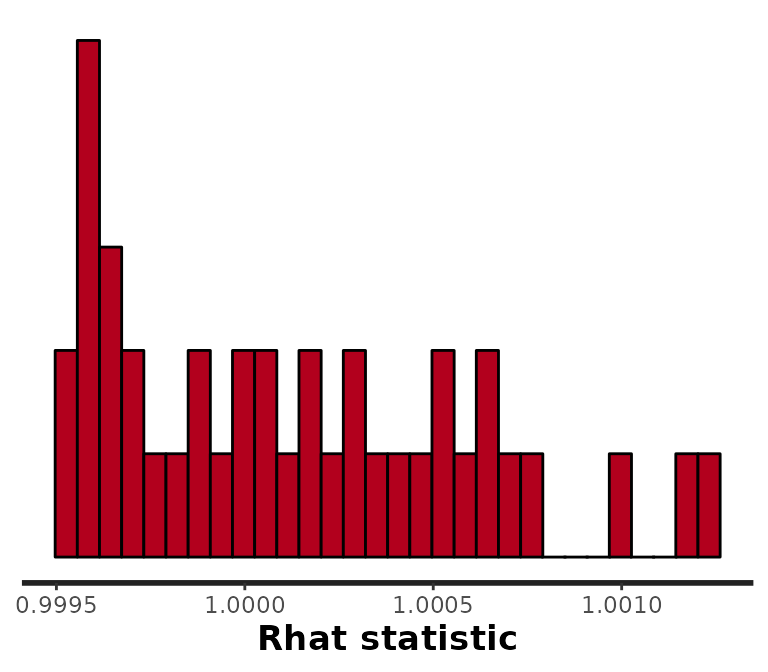
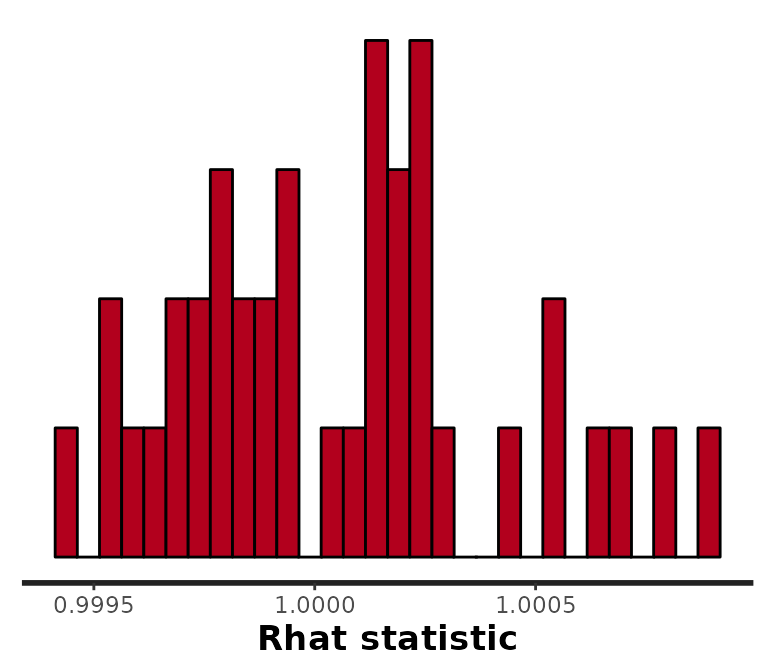
clean up mcmc discussion

diff --git a/docs/articles/surveil-mcmc.html b/docs/articles/surveil-mcmc.html
@@ -92,9 +92,9 @@
 
     
     
-<p>This vignette shows <strong>surveil</strong> users how to access and review Markov chain Monte Carlo (MCMC) diagnostics from <strong>surveil</strong> models. This not a complete resource for understanding MCMC, and readers are encouraged to seek additional resources.</p>
+<p>This vignette shows <strong>surveil</strong> users how to access and review Markov chain Monte Carlo (MCMC) diagnostics from <strong>surveil</strong> models. This is not a complete resource for understanding MCMC, and readers are encouraged to seek additional resources.</p>
 <p>Markov chain Monte Carlo (MCMC) algorithms, such as the Hamiltonian Monte Carlo algorithm that Stan (and therefore <strong>surveil</strong>) uses, aim to draw samples from the probability distribution specified by the user. The algorithm tries to explore the probability distribution extensively, and when successful, the resulting samples provide an approximate image of the target probability distribution.</p>
-<p>Books that discuss MCMC include <span class="citation">MacKay (<a href="#ref-mackay_2003">2003</a>)</span> and <span class="citation">Gelman et al. (<a href="#ref-gelman_2014">2014</a>)</span>; see also <span class="citation">Stan Development Team (<a href="#ref-stan-dev_2022">2022</a>)</span> and <span class="citation">Vehtari et al. (<a href="#ref-vehtari_2021">2021</a>)</span>.</p>
+<p>Books that discuss MCMC include <span class="citation">MacKay (<a href="#ref-mackay_2003">2003</a>)</span> and <span class="citation">Gelman et al. (<a href="#ref-gelman_2014">2014</a>)</span>; see also <span class="citation">Stan Development Team (<a href="#ref-stan-dev_2022">2022</a>)</span> and <span class="citation">Vehtari et al. (<a href="#ref-vehtari_2021">2021</a>)</span>. <span class="citation">McElreath (<a href="#ref-mcelreath_2016">2016</a>)</span> is helpful for learning Bayesian analysis using MCMC samples.</p>
 <p>The following topics will be introduced here:</p>
 <ul>
 <li>Monte Carlo standard errors (MCSE)</li>
@@ -125,8 +125,8 @@
 <span class="co">#&gt; </span>
 <span class="co">#&gt; SAMPLING FOR MODEL 'RW' NOW (CHAIN 1).</span>
 <span class="co">#&gt; Chain 1: </span>
-<span class="co">#&gt; Chain 1: Gradient evaluation took 1.2e-05 seconds</span>
-<span class="co">#&gt; Chain 1: 1000 transitions using 10 leapfrog steps per transition would take 0.12 seconds.</span>
+<span class="co">#&gt; Chain 1: Gradient evaluation took 1.5e-05 seconds</span>
+<span class="co">#&gt; Chain 1: 1000 transitions using 10 leapfrog steps per transition would take 0.15 seconds.</span>
 <span class="co">#&gt; Chain 1: Adjust your expectations accordingly!</span>
 <span class="co">#&gt; Chain 1: </span>
 <span class="co">#&gt; Chain 1: </span>
@@ -135,15 +135,15 @@
 <span class="co">#&gt; Chain 1: Iteration: 1501 / 3000 [ 50%]  (Sampling)</span>
 <span class="co">#&gt; Chain 1: Iteration: 3000 / 3000 [100%]  (Sampling)</span>
 <span class="co">#&gt; Chain 1: </span>
-<span class="co">#&gt; Chain 1:  Elapsed Time: 0.123157 seconds (Warm-up)</span>
-<span class="co">#&gt; Chain 1:                0.112433 seconds (Sampling)</span>
-<span class="co">#&gt; Chain 1:                0.23559 seconds (Total)</span>
+<span class="co">#&gt; Chain 1:  Elapsed Time: 0.131563 seconds (Warm-up)</span>
+<span class="co">#&gt; Chain 1:                0.103215 seconds (Sampling)</span>
+<span class="co">#&gt; Chain 1:                0.234778 seconds (Total)</span>
 <span class="co">#&gt; Chain 1: </span>
 <span class="co">#&gt; </span>
 <span class="co">#&gt; SAMPLING FOR MODEL 'RW' NOW (CHAIN 2).</span>
 <span class="co">#&gt; Chain 2: </span>
-<span class="co">#&gt; Chain 2: Gradient evaluation took 1e-05 seconds</span>
-<span class="co">#&gt; Chain 2: 1000 transitions using 10 leapfrog steps per transition would take 0.1 seconds.</span>
+<span class="co">#&gt; Chain 2: Gradient evaluation took 6e-06 seconds</span>
+<span class="co">#&gt; Chain 2: 1000 transitions using 10 leapfrog steps per transition would take 0.06 seconds.</span>
 <span class="co">#&gt; Chain 2: Adjust your expectations accordingly!</span>
 <span class="co">#&gt; Chain 2: </span>
 <span class="co">#&gt; Chain 2: </span>
@@ -152,15 +152,15 @@
 <span class="co">#&gt; Chain 2: Iteration: 1501 / 3000 [ 50%]  (Sampling)</span>
 <span class="co">#&gt; Chain 2: Iteration: 3000 / 3000 [100%]  (Sampling)</span>
 <span class="co">#&gt; Chain 2: </span>
-<span class="co">#&gt; Chain 2:  Elapsed Time: 0.136175 seconds (Warm-up)</span>
-<span class="co">#&gt; Chain 2:                0.113429 seconds (Sampling)</span>
-<span class="co">#&gt; Chain 2:                0.249604 seconds (Total)</span>
+<span class="co">#&gt; Chain 2:  Elapsed Time: 0.12667 seconds (Warm-up)</span>
+<span class="co">#&gt; Chain 2:                0.118434 seconds (Sampling)</span>
+<span class="co">#&gt; Chain 2:                0.245104 seconds (Total)</span>
 <span class="co">#&gt; Chain 2: </span>
 <span class="co">#&gt; </span>
 <span class="co">#&gt; SAMPLING FOR MODEL 'RW' NOW (CHAIN 3).</span>
 <span class="co">#&gt; Chain 3: </span>
-<span class="co">#&gt; Chain 3: Gradient evaluation took 7e-06 seconds</span>
-<span class="co">#&gt; Chain 3: 1000 transitions using 10 leapfrog steps per transition would take 0.07 seconds.</span>
+<span class="co">#&gt; Chain 3: Gradient evaluation took 8e-06 seconds</span>
+<span class="co">#&gt; Chain 3: 1000 transitions using 10 leapfrog steps per transition would take 0.08 seconds.</span>
 <span class="co">#&gt; Chain 3: Adjust your expectations accordingly!</span>
 <span class="co">#&gt; Chain 3: </span>
 <span class="co">#&gt; Chain 3: </span>
@@ -169,15 +169,15 @@
 <span class="co">#&gt; Chain 3: Iteration: 1501 / 3000 [ 50%]  (Sampling)</span>
 <span class="co">#&gt; Chain 3: Iteration: 3000 / 3000 [100%]  (Sampling)</span>
 <span class="co">#&gt; Chain 3: </span>
-<span class="co">#&gt; Chain 3:  Elapsed Time: 0.125045 seconds (Warm-up)</span>
-<span class="co">#&gt; Chain 3:                0.146184 seconds (Sampling)</span>
-<span class="co">#&gt; Chain 3:                0.271229 seconds (Total)</span>
+<span class="co">#&gt; Chain 3:  Elapsed Time: 0.131659 seconds (Warm-up)</span>
+<span class="co">#&gt; Chain 3:                0.123431 seconds (Sampling)</span>
+<span class="co">#&gt; Chain 3:                0.25509 seconds (Total)</span>
 <span class="co">#&gt; Chain 3: </span>
 <span class="co">#&gt; </span>
 <span class="co">#&gt; SAMPLING FOR MODEL 'RW' NOW (CHAIN 4).</span>
 <span class="co">#&gt; Chain 4: </span>
-<span class="co">#&gt; Chain 4: Gradient evaluation took 8e-06 seconds</span>
-<span class="co">#&gt; Chain 4: 1000 transitions using 10 leapfrog steps per transition would take 0.08 seconds.</span>
+<span class="co">#&gt; Chain 4: Gradient evaluation took 7e-06 seconds</span>
+<span class="co">#&gt; Chain 4: 1000 transitions using 10 leapfrog steps per transition would take 0.07 seconds.</span>
 <span class="co">#&gt; Chain 4: Adjust your expectations accordingly!</span>
 <span class="co">#&gt; Chain 4: </span>
 <span class="co">#&gt; Chain 4: </span>
@@ -186,9 +186,9 @@
 <span class="co">#&gt; Chain 4: Iteration: 1501 / 3000 [ 50%]  (Sampling)</span>
 <span class="co">#&gt; Chain 4: Iteration: 3000 / 3000 [100%]  (Sampling)</span>
 <span class="co">#&gt; Chain 4: </span>
-<span class="co">#&gt; Chain 4:  Elapsed Time: 0.144927 seconds (Warm-up)</span>
-<span class="co">#&gt; Chain 4:                0.109544 seconds (Sampling)</span>
-<span class="co">#&gt; Chain 4:                0.254471 seconds (Total)</span>
+<span class="co">#&gt; Chain 4:  Elapsed Time: 0.141868 seconds (Warm-up)</span>
+<span class="co">#&gt; Chain 4:                0.163614 seconds (Sampling)</span>
+<span class="co">#&gt; Chain 4:                0.305482 seconds (Total)</span>
 <span class="co">#&gt; Chain 4:</span></code></pre></div>
 <p>Given 4 MCMC chains, 3,000 samples drawn from each chain, and the first <code>.5 * 3000 = 1500</code> samples discarded as warmup, the <code>fit</code> object contains 6,000 MCMC samples. There is one parameter per year, each representing the level of cancer risk. There are 19 years of data (1999-2017). The number of samples required depends upon a number of factors, and in some cases the default settings may be more or less than is needed. One should draw enough samples that 1) the Monte Carlo standard errors are sufficiently small, and 2) the MCMC chains have had time to converge on a single distribution (these concepts will be discussed below).</p>
 <p>The <code>print</code> method will return a summary of the marginal probability distributions for each year:</p>
@@ -197,27 +197,27 @@
 <span class="co">#&gt; Summary of surveil model results</span>
 <span class="co">#&gt; Time periods: 19</span>
 <span class="co">#&gt;    time     mean  lwr_2.5 upr_97.5</span>
-<span class="co">#&gt; 1  1999 12.48997 12.06230 12.91647</span>
-<span class="co">#&gt; 2  2000 12.62630 12.25191 12.99710</span>
-<span class="co">#&gt; 3  2001 12.97683 12.62380 13.36344</span>
-<span class="co">#&gt; 4  2002 12.85180 12.49831 13.21030</span>
-<span class="co">#&gt; 5  2003 12.93375 12.57833 13.28914</span>
-<span class="co">#&gt; 6  2004 13.20676 12.85914 13.58238</span>
-<span class="co">#&gt; 7  2005 13.16807 12.79514 13.53753</span>
-<span class="co">#&gt; 8  2006 13.37631 13.02247 13.75058</span>
-<span class="co">#&gt; 9  2007 13.35656 12.98847 13.71974</span>
-<span class="co">#&gt; 10 2008 13.48214 13.11921 13.84128</span>
-<span class="co">#&gt; 11 2009 13.72788 13.33430 14.11031</span>
-<span class="co">#&gt; 12 2010 14.06267 13.69460 14.45558</span>
-<span class="co">#&gt; 13 2011 14.19316 13.81593 14.56554</span>
-<span class="co">#&gt; 14 2012 14.42301 14.03207 14.80485</span>
-<span class="co">#&gt; 15 2013 14.76545 14.36782 15.15715</span>
-<span class="co">#&gt; 16 2014 15.18511 14.78636 15.60836</span>
-<span class="co">#&gt; 17 2015 15.33081 14.94697 15.75482</span>
-<span class="co">#&gt; 18 2016 15.52610 15.11829 15.96397</span>
-<span class="co">#&gt; 19 2017 15.19147 14.73731 15.64165</span></code></pre></div>
-<p>Adding <code>scale = 100e3</code> will report results in terms of cases per 100,000 persons at risk.</p>
-<p>The <code>mean</code> refers to the mean of the MCMC samples and the <code>lwr_2.5</code> and <code>upr_97.5</code> report the bounds of the central 95% quantile interval (or credible interval: CI).</p>
+<span class="co">#&gt; 1  1999 12.49317 12.08216 12.91010</span>
+<span class="co">#&gt; 2  2000 12.63031 12.25587 12.99817</span>
+<span class="co">#&gt; 3  2001 12.98819 12.61972 13.38929</span>
+<span class="co">#&gt; 4  2002 12.85423 12.48619 13.20877</span>
+<span class="co">#&gt; 5  2003 12.93299 12.57597 13.29205</span>
+<span class="co">#&gt; 6  2004 13.20830 12.86984 13.58325</span>
+<span class="co">#&gt; 7  2005 13.16520 12.79770 13.53033</span>
+<span class="co">#&gt; 8  2006 13.37378 13.01424 13.76459</span>
+<span class="co">#&gt; 9  2007 13.35282 12.99164 13.71504</span>
+<span class="co">#&gt; 10 2008 13.47818 13.09627 13.83289</span>
+<span class="co">#&gt; 11 2009 13.72654 13.35502 14.09346</span>
+<span class="co">#&gt; 12 2010 14.06841 13.70316 14.46544</span>
+<span class="co">#&gt; 13 2011 14.19426 13.81827 14.58055</span>
+<span class="co">#&gt; 14 2012 14.42925 14.04160 14.82567</span>
+<span class="co">#&gt; 15 2013 14.76552 14.37662 15.16147</span>
+<span class="co">#&gt; 16 2014 15.18206 14.78718 15.61081</span>
+<span class="co">#&gt; 17 2015 15.33075 14.94279 15.74060</span>
+<span class="co">#&gt; 18 2016 15.52751 15.11040 15.96962</span>
+<span class="co">#&gt; 19 2017 15.19067 14.72758 15.64338</span></code></pre></div>
+<p>Using <code>scale = 100e3</code> caused the results to be printed in terms of cases per 100,000 persons at risk.</p>
+<p>The <code>mean</code> refers to the mean of the respective marginal probability distributions and the <code>lwr_2.5</code> and <code>upr_97.5</code> report the bounds of their central 95% quantile intervals (or credible interval: CI). The mean and CI can generally be interpreted as the “estimate” and its measure of uncertainty. However, one can visualize the entire probability distribution for any modeled quantity using a histogram of the MCMC samples.</p>
 </div>
 <div class="section level2">
 <h2 id="mcmc-analysis">MCMC analysis<a class="anchor" aria-label="anchor" href="#mcmc-analysis"></a>
@@ -226,45 +226,46 @@
 <div class="sourceCode" id="cb4"><pre class="downlit sourceCode r">
 <code class="sourceCode R"><span class="va">samples</span> <span class="op">&lt;-</span> <span class="va">fit</span><span class="op">$</span><span class="va">samples</span>
 <span class="fu"><a href="https://rdrr.io/r/base/class.html" class="external-link">class</a></span><span class="op">(</span><span class="va">samples</span><span class="op">)</span>
-<span class="va">phi</span> <span class="op">&lt;-</span> <span class="fu"><a href="https://rdrr.io/r/base/matrix.html" class="external-link">as.matrix</a></span><span class="op">(</span><span class="va">samples</span>, pars <span class="op">=</span> <span class="st">"rate"</span><span class="op">)</span>
-<span class="fu"><a href="https://rdrr.io/r/base/dim.html" class="external-link">dim</a></span><span class="op">(</span><span class="va">phi</span><span class="op">)</span>
 <span class="co">#&gt; [1] "stanfit"</span>
 <span class="co">#&gt; attr(,"package")</span>
-<span class="co">#&gt; [1] "rstan"</span>
+<span class="co">#&gt; [1] "rstan"</span></code></pre></div>
+<div class="sourceCode" id="cb5"><pre class="downlit sourceCode r">
+<code class="sourceCode R"><span class="va">phi</span> <span class="op">&lt;-</span> <span class="fu"><a href="https://rdrr.io/r/base/matrix.html" class="external-link">as.matrix</a></span><span class="op">(</span><span class="va">samples</span>, pars <span class="op">=</span> <span class="st">"rate"</span><span class="op">)</span>
+<span class="fu"><a href="https://rdrr.io/r/base/dim.html" class="external-link">dim</a></span><span class="op">(</span><span class="va">phi</span><span class="op">)</span>
 <span class="co">#&gt; [1] 6000   19</span></code></pre></div>
 <p>Each row of the matrix <code>phi</code> is a sample from the joint posterior probability distribution of parameters, and each column represents a parameter (in this case, each parameter represents the level of cancer risk averaged over a given year). The values in any given column are samples from the marginal probability distribution for that parameter.</p>
 <p>We can visualize the marginal distribution of cancer risk in 1999 for 10-14 year olds using a histogram; we will scale this in terms of cases per 100,000 persons at risk:</p>
-<div class="sourceCode" id="cb5"><pre class="downlit sourceCode r">
+<div class="sourceCode" id="cb6"><pre class="downlit sourceCode r">
 <code class="sourceCode R"><span class="va">phi_1999</span> <span class="op">&lt;-</span> <span class="va">phi</span><span class="op">[</span>,<span class="fl">1</span><span class="op">]</span> <span class="op">*</span> <span class="fl">100e3</span>
 <span class="fu"><a href="https://rdrr.io/r/utils/head.html" class="external-link">head</a></span><span class="op">(</span><span class="va">phi_1999</span><span class="op">)</span>
-<span class="co">#&gt; [1] 12.59598 12.56929 12.38702 12.37284 12.89397 12.48571</span></code></pre></div>
-<div class="sourceCode" id="cb6"><pre class="downlit sourceCode r">
-<code class="sourceCode R"><span class="fu"><a href="https://rdrr.io/r/graphics/hist.html" class="external-link">hist</a></span><span class="op">(</span><span class="va">phi_1999</span>, main <span class="op">=</span> <span class="st">"Rate per 100,000"</span><span class="op">)</span></code></pre></div>
-<p><img src="surveil-mcmc_files/figure-html/unnamed-chunk-7-1.png" width="480" style="display: block; margin: auto;"></p>
-<p>To summarize this distribution, we can calculate the mean and select quantiles of the MCMC samples:</p>
+<span class="co">#&gt; [1] 12.37279 12.43510 12.39438 12.55268 12.19018 12.72769</span></code></pre></div>
 <div class="sourceCode" id="cb7"><pre class="downlit sourceCode r">
-<code class="sourceCode R"><span class="fu"><a href="https://rdrr.io/r/base/mean.html" class="external-link">mean</a></span><span class="op">(</span><span class="va">phi_1999</span><span class="op">)</span>
-<span class="co">#&gt; [1] 12.48997</span></code></pre></div>
+<code class="sourceCode R"><span class="fu"><a href="https://rdrr.io/r/graphics/hist.html" class="external-link">hist</a></span><span class="op">(</span><span class="va">phi_1999</span>, main <span class="op">=</span> <span class="st">"Rate per 100,000"</span><span class="op">)</span></code></pre></div>
+<p><img src="surveil-mcmc_files/figure-html/unnamed-chunk-8-1.png" width="480" style="display: block; margin: auto;"></p>
+<p>To summarize this probability distribution, we can calculate the mean and select quantiles of the MCMC samples:</p>
 <div class="sourceCode" id="cb8"><pre class="downlit sourceCode r">
+<code class="sourceCode R"><span class="fu"><a href="https://rdrr.io/r/base/mean.html" class="external-link">mean</a></span><span class="op">(</span><span class="va">phi_1999</span><span class="op">)</span>
+<span class="co">#&gt; [1] 12.49317</span></code></pre></div>
+<div class="sourceCode" id="cb9"><pre class="downlit sourceCode r">
 <code class="sourceCode R"><span class="fu"><a href="https://rdrr.io/r/stats/quantile.html" class="external-link">quantile</a></span><span class="op">(</span><span class="va">phi_1999</span>, probs <span class="op">=</span> <span class="fu"><a href="https://rdrr.io/r/base/c.html" class="external-link">c</a></span><span class="op">(</span><span class="fl">0.025</span>, <span class="fl">0.1</span>, <span class="fl">0.9</span>, <span class="fl">0.975</span><span class="op">)</span><span class="op">)</span>
 <span class="co">#&gt;     2.5%      10%      90%    97.5% </span>
-<span class="co">#&gt; 12.06230 12.21378 12.76154 12.91647</span></code></pre></div>
-<p>If we did this for all years we would obtain the same information that was provided by <code>print(fit)</code>.</p>
+<span class="co">#&gt; 12.08216 12.22248 12.76089 12.91010</span></code></pre></div>
+<p>If we repeated these steps for all years we would obtain the same information that was provided by <code>print(fit)</code>.</p>
 <p>In order to make inferences about quantities that involve more than one parameter, we need to use samples from the joint probability distribution. We can visualize the joint distribution using the <code>plot</code> method:</p>
-<div class="sourceCode" id="cb9"><pre class="downlit sourceCode r">
+<div class="sourceCode" id="cb10"><pre class="downlit sourceCode r">
 <code class="sourceCode R"><span class="fu"><a href="https://rdrr.io/r/graphics/plot.default.html" class="external-link">plot</a></span><span class="op">(</span><span class="va">fit</span>, style <span class="op">=</span> <span class="st">"lines"</span>, scale <span class="op">=</span> <span class="fl">100e3</span><span class="op">)</span>
 <span class="co">#&gt; Plotted rates are per 100,000</span></code></pre></div>
-<p><img src="surveil-mcmc_files/figure-html/unnamed-chunk-10-1.png" width="480" style="display: block; margin: auto;"></p>
+<p><img src="surveil-mcmc_files/figure-html/unnamed-chunk-11-1.png" width="480" style="display: block; margin: auto;"></p>
 <p>Each line is a visual depiction of a row from the matrix of MCMC samples <code>phi</code>.</p>
 <p>When calculating quantities of interest, like annual percent change, cumulative change, or a measure of inequality, one must always use the joint distribution. This means that the quantity of interest needs to be calculated by working row-wise, which will result in a vector of samples for the quantity of interest. To illustrate how this is done, the following code creates a new quantity: the difference between risk in 2017 (the <span class="math inline">\(19^{th}\)</span> year) and 1999 (the first observed year).</p>
-<div class="sourceCode" id="cb10"><pre class="downlit sourceCode r">
+<div class="sourceCode" id="cb11"><pre class="downlit sourceCode r">
 <code class="sourceCode R"><span class="va">diff</span> <span class="op">&lt;-</span> <span class="op">(</span><span class="va">phi</span><span class="op">[</span>,<span class="fl">19</span><span class="op">]</span> <span class="op">-</span> <span class="va">phi</span><span class="op">[</span>,<span class="fl">1</span><span class="op">]</span><span class="op">)</span> <span class="op">*</span> <span class="fl">100e3</span>
 <span class="fu"><a href="https://rdrr.io/r/graphics/hist.html" class="external-link">hist</a></span><span class="op">(</span><span class="va">diff</span><span class="op">)</span></code></pre></div>
-<p><img src="surveil-mcmc_files/figure-html/unnamed-chunk-11-1.png" width="480" style="display: block; margin: auto;"></p>
+<p><img src="surveil-mcmc_files/figure-html/unnamed-chunk-12-1.png" width="480" style="display: block; margin: auto;"></p>
 <p>The principle at work here is that you never summarize MCMC samples until after all of the calculations are done. The mean of the probability distribution for the change in risk over this period is:</p>
-<div class="sourceCode" id="cb11"><pre class="downlit sourceCode r">
+<div class="sourceCode" id="cb12"><pre class="downlit sourceCode r">
 <code class="sourceCode R"><span class="fu"><a href="https://rdrr.io/r/base/mean.html" class="external-link">mean</a></span><span class="op">(</span><span class="va">diff</span><span class="op">)</span>
-<span class="co">#&gt; [1] 2.701494</span></code></pre></div>
+<span class="co">#&gt; [1] 2.697495</span></code></pre></div>
 </div>
 <div class="section level2">
 <h2 id="monte-carlo-standard-errors">Monte Carlo standard errors<a class="anchor" aria-label="anchor" href="#monte-carlo-standard-errors"></a>
@@ -278,61 +279,61 @@
 <p><span class="math display">\[MCSE(\phi) = \frac{\sqrt(Var(\phi))}{\sqrt(ESS(\phi))}\]</span></p>
 <p>where <span class="math inline">\(Var(\phi)\)</span> is the variance of the posterior distribution for parameter <span class="math inline">\(\phi\)</span> and ESS is the effective sample size. ESS is adjusted for autocorrelation in the MCMC samples.</p>
 <p>To view a histogram of MCSEs for all parameters in the <strong>surveil</strong> model, we can use <strong>rstan</strong>’s <code>stan_mcse</code> function:</p>
-<div class="sourceCode" id="cb12"><pre class="downlit sourceCode r">
+<div class="sourceCode" id="cb13"><pre class="downlit sourceCode r">
 <code class="sourceCode R"><span class="fu">rstan</span><span class="fu">::</span><span class="fu"><a href="https://mc-stan.org/rstan/reference/stan_plot_diagnostics.html" class="external-link">stan_mcse</a></span><span class="op">(</span><span class="va">samples</span><span class="op">)</span>
 <span class="co">#&gt; `stat_bin()` using `bins = 30`. Pick better value with `binwidth`.</span></code></pre></div>
-<p><img src="surveil-mcmc_files/figure-html/unnamed-chunk-13-1.png" width="384" style="display: block; margin: auto;"></p>
+<p><img src="surveil-mcmc_files/figure-html/unnamed-chunk-14-1.png" width="384" style="display: block; margin: auto;"></p>
 <p>Notice that instead of returning the MCSEs themselves, <strong>rstan</strong> divides the MCSEs by the scale of the probability distribution, <span class="math inline">\(\frac{MCSE(\phi)}{SD(\phi)}\)</span>. We can see that most of these values are under 0.04. We can always obtain smaller MCSEs by drawing a larger number of samples.</p>
 <p>It may be more intuitive to examine the effective sample size (ESS) directly. You can start by printing the <code>fit$samples</code> object and examining the ESS directly. ESS is reported in the column labeled <code>n_eff</code>:</p>
-<div class="sourceCode" id="cb13"><pre class="downlit sourceCode r">
+<div class="sourceCode" id="cb14"><pre class="downlit sourceCode r">
 <code class="sourceCode R"><span class="fu"><a href="https://rdrr.io/r/base/print.html" class="external-link">print</a></span><span class="op">(</span><span class="va">samples</span><span class="op">)</span>
 <span class="co">#&gt; Inference for Stan model: RW.</span>
 <span class="co">#&gt; 4 chains, each with iter=3000; warmup=1500; thin=1; </span>
 <span class="co">#&gt; post-warmup draws per chain=1500, total post-warmup draws=6000.</span>
 <span class="co">#&gt; </span>
 <span class="co">#&gt;                 mean se_mean   sd   2.5%    25%    50%    75%  97.5% n_eff Rhat</span>
-<span class="co">#&gt; rate[1,1]       0.00    0.00 0.00   0.00   0.00   0.00   0.00   0.00  4558    1</span>
-<span class="co">#&gt; rate[1,2]       0.00    0.00 0.00   0.00   0.00   0.00   0.00   0.00  4324    1</span>
-<span class="co">#&gt; rate[1,3]       0.00    0.00 0.00   0.00   0.00   0.00   0.00   0.00  4360    1</span>
-<span class="co">#&gt; rate[1,4]       0.00    0.00 0.00   0.00   0.00   0.00   0.00   0.00  5950    1</span>
-<span class="co">#&gt; rate[1,5]       0.00    0.00 0.00   0.00   0.00   0.00   0.00   0.00  6013    1</span>
-<span class="co">#&gt; rate[1,6]       0.00    0.00 0.00   0.00   0.00   0.00   0.00   0.00  5486    1</span>
-<span class="co">#&gt; rate[1,7]       0.00    0.00 0.00   0.00   0.00   0.00   0.00   0.00  5816    1</span>
-<span class="co">#&gt; rate[1,8]       0.00    0.00 0.00   0.00   0.00   0.00   0.00   0.00  5798    1</span>
-<span class="co">#&gt; rate[1,9]       0.00    0.00 0.00   0.00   0.00   0.00   0.00   0.00  5835    1</span>
-<span class="co">#&gt; rate[1,10]      0.00    0.00 0.00   0.00   0.00   0.00   0.00   0.00  5455    1</span>
-<span class="co">#&gt; rate[1,11]      0.00    0.00 0.00   0.00   0.00   0.00   0.00   0.00  5935    1</span>
-<span class="co">#&gt; rate[1,12]      0.00    0.00 0.00   0.00   0.00   0.00   0.00   0.00  5474    1</span>
-<span class="co">#&gt; rate[1,13]      0.00    0.00 0.00   0.00   0.00   0.00   0.00   0.00  5523    1</span>
-<span class="co">#&gt; rate[1,14]      0.00    0.00 0.00   0.00   0.00   0.00   0.00   0.00  5714    1</span>
-<span class="co">#&gt; rate[1,15]      0.00    0.00 0.00   0.00   0.00   0.00   0.00   0.00  5168    1</span>
-<span class="co">#&gt; rate[1,16]      0.00    0.00 0.00   0.00   0.00   0.00   0.00   0.00  5561    1</span>
-<span class="co">#&gt; rate[1,17]      0.00    0.00 0.00   0.00   0.00   0.00   0.00   0.00  5981    1</span>
-<span class="co">#&gt; rate[1,18]      0.00    0.00 0.00   0.00   0.00   0.00   0.00   0.00  4057    1</span>
-<span class="co">#&gt; rate[1,19]      0.00    0.00 0.00   0.00   0.00   0.00   0.00   0.00  5981    1</span>
-<span class="co">#&gt; sigma[1]        0.03    0.00 0.01   0.02   0.02   0.02   0.03   0.04  1565    1</span>
-<span class="co">#&gt; log_lik[1,1]   -5.26    0.01 0.61  -7.03  -5.40  -5.03  -4.87  -4.82  3740    1</span>
-<span class="co">#&gt; log_lik[1,2]   -5.25    0.01 0.55  -6.80  -5.40  -5.04  -4.88  -4.84  3686    1</span>
-<span class="co">#&gt; log_lik[1,3]   -5.88    0.01 0.95  -8.32  -6.33  -5.63  -5.15  -4.88  4418    1</span>
-<span class="co">#&gt; log_lik[1,4]   -5.25    0.01 0.52  -6.74  -5.38  -5.05  -4.91  -4.87  3974    1</span>
-<span class="co">#&gt; log_lik[1,5]   -5.26    0.01 0.53  -6.70  -5.39  -5.06  -4.92  -4.88  4140    1</span>
-<span class="co">#&gt; log_lik[1,6]   -5.45    0.01 0.66  -7.21  -5.69  -5.22  -4.98  -4.90  4283    1</span>
-<span class="co">#&gt; log_lik[1,7]   -5.31    0.01 0.57  -6.92  -5.47  -5.10  -4.93  -4.88  4521    1</span>
-<span class="co">#&gt; log_lik[1,8]   -5.29    0.01 0.52  -6.75  -5.44  -5.10  -4.94  -4.90  4250    1</span>
-<span class="co">#&gt; log_lik[1,9]   -5.21    0.01 0.46  -6.50  -5.32  -5.04  -4.92  -4.88  4301    1</span>
-<span class="co">#&gt; log_lik[1,10]  -5.20    0.01 0.43  -6.43  -5.30  -5.03  -4.92  -4.88  4000    1</span>
-<span class="co">#&gt; log_lik[1,11]  -5.19    0.01 0.42  -6.40  -5.27  -5.02  -4.92  -4.89  3038    1</span>
-<span class="co">#&gt; log_lik[1,12]  -5.29    0.01 0.51  -6.69  -5.44  -5.10  -4.95  -4.91  4298    1</span>
-<span class="co">#&gt; log_lik[1,13]  -5.20    0.01 0.41  -6.41  -5.30  -5.05  -4.94  -4.91  3284    1</span>
-<span class="co">#&gt; log_lik[1,14]  -5.22    0.01 0.43  -6.42  -5.32  -5.06  -4.95  -4.92  3312    1</span>
-<span class="co">#&gt; log_lik[1,15]  -5.22    0.01 0.42  -6.45  -5.32  -5.06  -4.96  -4.93  3080    1</span>
-<span class="co">#&gt; log_lik[1,16]  -5.41    0.01 0.60  -7.03  -5.57  -5.17  -5.00  -4.95  4603    1</span>
-<span class="co">#&gt; log_lik[1,17]  -5.23    0.01 0.40  -6.38  -5.33  -5.08  -4.98  -4.95  3520    1</span>
-<span class="co">#&gt; log_lik[1,18]  -5.77    0.01 0.87  -8.08  -6.15  -5.50  -5.11  -4.97  4039    1</span>
-<span class="co">#&gt; log_lik[1,19]  -5.49    0.01 0.71  -7.54  -5.69  -5.21  -5.00  -4.94  4082    1</span>
-<span class="co">#&gt; lp__          -25.47    0.10 3.78 -33.95 -27.75 -25.10 -22.78 -19.10  1457    1</span>
+<span class="co">#&gt; rate[1,1]       0.00    0.00 0.00   0.00   0.00   0.00   0.00   0.00  4787    1</span>
+<span class="co">#&gt; rate[1,2]       0.00    0.00 0.00   0.00   0.00   0.00   0.00   0.00  5051    1</span>
+<span class="co">#&gt; rate[1,3]       0.00    0.00 0.00   0.00   0.00   0.00   0.00   0.00  5291    1</span>
+<span class="co">#&gt; rate[1,4]       0.00    0.00 0.00   0.00   0.00   0.00   0.00   0.00  5651    1</span>
+<span class="co">#&gt; rate[1,5]       0.00    0.00 0.00   0.00   0.00   0.00   0.00   0.00  6124    1</span>
+<span class="co">#&gt; rate[1,6]       0.00    0.00 0.00   0.00   0.00   0.00   0.00   0.00  6135    1</span>
+<span class="co">#&gt; rate[1,7]       0.00    0.00 0.00   0.00   0.00   0.00   0.00   0.00  6695    1</span>
+<span class="co">#&gt; rate[1,8]       0.00    0.00 0.00   0.00   0.00   0.00   0.00   0.00  5917    1</span>
+<span class="co">#&gt; rate[1,9]       0.00    0.00 0.00   0.00   0.00   0.00   0.00   0.00  6151    1</span>
+<span class="co">#&gt; rate[1,10]      0.00    0.00 0.00   0.00   0.00   0.00   0.00   0.00  5802    1</span>
+<span class="co">#&gt; rate[1,11]      0.00    0.00 0.00   0.00   0.00   0.00   0.00   0.00  5789    1</span>
+<span class="co">#&gt; rate[1,12]      0.00    0.00 0.00   0.00   0.00   0.00   0.00   0.00  6133    1</span>
+<span class="co">#&gt; rate[1,13]      0.00    0.00 0.00   0.00   0.00   0.00   0.00   0.00  7166    1</span>
+<span class="co">#&gt; rate[1,14]      0.00    0.00 0.00   0.00   0.00   0.00   0.00   0.00  6711    1</span>
+<span class="co">#&gt; rate[1,15]      0.00    0.00 0.00   0.00   0.00   0.00   0.00   0.00  7172    1</span>
+<span class="co">#&gt; rate[1,16]      0.00    0.00 0.00   0.00   0.00   0.00   0.00   0.00  5508    1</span>
+<span class="co">#&gt; rate[1,17]      0.00    0.00 0.00   0.00   0.00   0.00   0.00   0.00  6364    1</span>
+<span class="co">#&gt; rate[1,18]      0.00    0.00 0.00   0.00   0.00   0.00   0.00   0.00  4741    1</span>
+<span class="co">#&gt; rate[1,19]      0.00    0.00 0.00   0.00   0.00   0.00   0.00   0.00  5869    1</span>
+<span class="co">#&gt; sigma[1]        0.03    0.00 0.01   0.02   0.02   0.02   0.03   0.04  1569    1</span>
+<span class="co">#&gt; log_lik[1,1]   -5.24    0.01 0.56  -6.93  -5.41  -5.02  -4.87  -4.82  3930    1</span>
+<span class="co">#&gt; log_lik[1,2]   -5.25    0.01 0.55  -6.81  -5.39  -5.04  -4.88  -4.84  4460    1</span>
+<span class="co">#&gt; log_lik[1,3]   -5.85    0.01 0.97  -8.37  -6.30  -5.57  -5.11  -4.88  5229    1</span>
+<span class="co">#&gt; log_lik[1,4]   -5.26    0.01 0.54  -6.72  -5.41  -5.06  -4.91  -4.87  3943    1</span>
+<span class="co">#&gt; log_lik[1,5]   -5.26    0.01 0.51  -6.74  -5.39  -5.06  -4.92  -4.88  4206    1</span>
+<span class="co">#&gt; log_lik[1,6]   -5.44    0.01 0.63  -7.13  -5.67  -5.22  -4.98  -4.90  5157    1</span>
+<span class="co">#&gt; log_lik[1,7]   -5.30    0.01 0.56  -6.88  -5.46  -5.09  -4.93  -4.88  4637    1</span>
+<span class="co">#&gt; log_lik[1,8]   -5.31    0.01 0.56  -6.85  -5.46  -5.10  -4.94  -4.90  4231    1</span>
+<span class="co">#&gt; log_lik[1,9]   -5.21    0.01 0.45  -6.49  -5.33  -5.04  -4.92  -4.88  3976    1</span>
+<span class="co">#&gt; log_lik[1,10]  -5.20    0.01 0.43  -6.38  -5.31  -5.03  -4.92  -4.88  3557    1</span>
+<span class="co">#&gt; log_lik[1,11]  -5.18    0.01 0.41  -6.35  -5.28  -5.02  -4.92  -4.89  3451    1</span>
+<span class="co">#&gt; log_lik[1,12]  -5.29    0.01 0.52  -6.68  -5.43  -5.09  -4.95  -4.91  4007    1</span>
+<span class="co">#&gt; log_lik[1,13]  -5.21    0.01 0.44  -6.43  -5.30  -5.04  -4.94  -4.91  3431    1</span>
+<span class="co">#&gt; log_lik[1,14]  -5.23    0.01 0.44  -6.53  -5.32  -5.06  -4.95  -4.92  3359    1</span>
+<span class="co">#&gt; log_lik[1,15]  -5.22    0.01 0.41  -6.36  -5.31  -5.06  -4.96  -4.93  3285    1</span>
+<span class="co">#&gt; log_lik[1,16]  -5.40    0.01 0.58  -7.03  -5.59  -5.19  -5.00  -4.95  4387    1</span>
+<span class="co">#&gt; log_lik[1,17]  -5.23    0.01 0.41  -6.39  -5.33  -5.08  -4.98  -4.95  3587    1</span>
+<span class="co">#&gt; log_lik[1,18]  -5.78    0.01 0.88  -8.16  -6.17  -5.48  -5.11  -4.96  4678    1</span>
+<span class="co">#&gt; log_lik[1,19]  -5.51    0.01 0.73  -7.53  -5.72  -5.23  -5.01  -4.94  4445    1</span>
+<span class="co">#&gt; lp__          -25.55    0.11 3.84 -34.08 -27.95 -25.20 -22.84 -18.98  1273    1</span>
 <span class="co">#&gt; </span>
-<span class="co">#&gt; Samples were drawn using NUTS(diag_e) at Sat Jul 30 11:56:25 2022.</span>
+<span class="co">#&gt; Samples were drawn using NUTS(diag_e) at Sun Jul 31 22:55:31 2022.</span>
 <span class="co">#&gt; For each parameter, n_eff is a crude measure of effective sample size,</span>
 <span class="co">#&gt; and Rhat is the potential scale reduction factor on split chains (at </span>
 <span class="co">#&gt; convergence, Rhat=1).</span></code></pre></div>
@@ -349,12 +350,11 @@
 <p>We recommend running at least four chains by default and in general only fully trust the sample if R-hat is less than 1.01.</p>
 </blockquote>
 <p>The default setting in <strong>surveil</strong> uses four MCMC chains, consistent with the above recommendation.</p>
-<p>The Rhat statistic can be examined by printing the Stanfit object <code>print(fit$samples)</code>. Since we always have at least as many parameters as we do time periods, it helps to visualize them all at once using <code><a href="https://mc-stan.org/rstan/reference/stan_plot_diagnostics.html" class="external-link">rstan::stan_rhat</a></code>:</p>
-<div class="sourceCode" id="cb14"><pre class="downlit sourceCode r">
+<p>The Rhat statistic can be examined by printing the Stanfit object <code>print(fit$samples)</code>. We can also visualize them all at once using <code><a href="https://mc-stan.org/rstan/reference/stan_plot_diagnostics.html" class="external-link">rstan::stan_rhat</a></code>:</p>
+<div class="sourceCode" id="cb15"><pre class="downlit sourceCode r">
 <code class="sourceCode R"><span class="fu">rstan</span><span class="fu">::</span><span class="fu"><a href="https://mc-stan.org/rstan/reference/stan_plot_diagnostics.html" class="external-link">stan_rhat</a></span><span class="op">(</span><span class="va">samples</span><span class="op">)</span>
 <span class="co">#&gt; `stat_bin()` using `bins = 30`. Pick better value with `binwidth`.</span></code></pre></div>
-<p><img src="surveil-mcmc_files/figure-html/unnamed-chunk-15-1.png" width="384" style="display: block; margin: auto;"></p>
-<p>These are all very near to 1. If any were approaching 1.05 or larger, we would want to run the chains for longer and then check results again.</p>
+<p><img src="surveil-mcmc_files/figure-html/unnamed-chunk-16-1.png" width="384" style="display: block; margin: auto;"></p>
 </div>
 <div class="section level2">
 <h2 id="divergent-transitions">Divergent transitions<a class="anchor" aria-label="anchor" href="#divergent-transitions"></a>
@@ -365,7 +365,7 @@
 <li><p>Draw more samples: if you also have low ESS, the divergent transitions may disappear by increasing the number of iterations (lengthening Stan’s adaptation or warm-up period). However, the default value of <code>iter = 3000</code> should generally be sufficient.</p></li>
 <li><p>Raise <code>adapt_delta</code>: you can also control a tuning parameter related to divergent transitions. Simply raising the <code>adapt_delta</code> value to, say, 0.99 or 0.999 if need be, may be sufficient; e.g., <code>stan_rw(data, time = Year, control = list(adapt_delta = 0.99, max_treedepth = 13))</code>. (When raising <code>adapt_delta</code>, raising <code>max_treedepth</code> may improve sampling speed.) Raising <code>adapt_delta</code> ever closer to 1 (e.g., to .9999) is generally not helpful.</p></li>
 </ol>
-<p>There may be times when you are not able to prevent divergent transitions. This may occur when the population at risk is small and observations are particularly noisy; introducing the covariance structure (using <code>core = TRUE</code>) may make these issues more difficult to address. If your are working with multiple age groups, it may be the case that the group with the smallest population at risk is the source of the problem. To determine if that is the case, you can run the model without that age group, or run a model for only that age group.</p>
+<p>There may be times when you are not able to prevent divergent transitions. This may occur when the population at risk is small and observations are particularly noisy; introducing the covariance structure (using <code>core = TRUE</code>) may make these issues more difficult to address. If your are working with multiple age groups, it may be the case that the age groups with very low case counts are the source of the problem. To determine if that is the case, you can run the model without that age group (or groups), or run a model for only that age group.</p>
 <p>If there is a large number of divergent transitions, this is a serious warning. You may have made a mistake with your input data, or it could be that the model is just not very appropriate for the data.</p>
 <p>If the number of divergent transitions is small (e.g., a handful out of 6,000 samples), and the ESS and Rhat are looking good, then you may determine that the amount of bias potentially introduced is acceptable for your purposes. You may want to report the issue along with results.</p>
 </div>
@@ -384,6 +384,9 @@
 </div>
 <div id="ref-mackay_2003">
 <p>MacKay, David M. 2003. <em>Information Theory, Inference, and Learning Algorithms</em>. Cambridge University Press.</p>
+</div>
+<div id="ref-mcelreath_2016">
+<p>McElreath, Richard. 2016. <em>Statistical Rethinking: A Bayesian Course with Examples in R and Stan</em>. CRC Press.</p>
 </div>
 <div id="ref-stan-dev_2022">
 <p>Stan Development Team. 2022. “Runtime Warnings and Convergence Problems.” <a href="https://mc-stan.org/misc/warnings.html#bfmi-low" class="external-link">https://mc-stan.org/misc/warnings.html#bfmi-low</a>.</p>

diff --git a/docs/reference/stan_rw.html b/docs/reference/stan_rw.html
@@ -23,7 +23,7 @@
       </button>
       <span class="navbar-brand">
         <a class="navbar-link" href="../index.html">surveil</a>
-        <span class="version label label-default" data-toggle="tooltip" data-placement="bottom" title="">0.2.0</span>
+        <span class="version label label-default" data-toggle="tooltip" data-placement="bottom" title="">0.2.1</span>
       </span>
     </div>
 
@@ -80,8 +80,9 @@
 
     <div id="source">
     <h2>Source</h2>
-    <p>Brandt P, Williams JT. Multiple time series models. Thousand Oaks, CA: SAGE Publications, 2007.</p>
+    <p>Brandt P and Williams JT. Multiple time series models. Thousand Oaks, CA: SAGE Publications, 2007.</p>
 <p>Clayton, DG. Generalized linear mixed models. In: Gilks WR, Richardson S, Spiegelhalter DJ, editors. Markov Chain Monte Carlo in Practice: Interdisciplinary Statistics. Boca Raton, FL: CRC Press, 1996. p. 275-302.</p>
+<p>Donegan C, Hughes AE, and Lee SC (Forthcoming). Colorectal Cancer Incidence, Inequalities, and Prevention Priorities in Urban Texas: Surveillance Study With the "surveil" Software Package. <em>JMIR Public Health &amp; Surveillance</em> 8(8):e34589.</p>
 <p>Stan Development Team. Stan Modeling Language Users Guide and Reference Manual, 2.28. 2021. https://mc-stan.org</p>
     </div>
     <div id="arguments">
@@ -191,7 +192,7 @@
     </div>
     <div id="see-also">
     <h2>See also</h2>
-    <div class="dont-index"><p><code><a href="../articles/demonstration.html">vignette("demonstration", package = "surveil")</a></code> <code><a href="../articles/age-standardization.html">vignette("age-standardization", package = "surveil")</a></code> <code><a href="apc.html">apc</a></code> <code><a href="standardize.html">standardize</a></code></p></div>
+    <div class="dont-index"><p><code>vignette("demonstration", package = "surveil")</code> <code><a href="../articles/age-standardization.html">vignette("age-standardization", package = "surveil")</a></code> <code><a href="apc.html">apc</a></code> <code><a href="standardize.html">standardize</a></code></p></div>
     </div>
     <div id="author">
     <h2>Author</h2>
